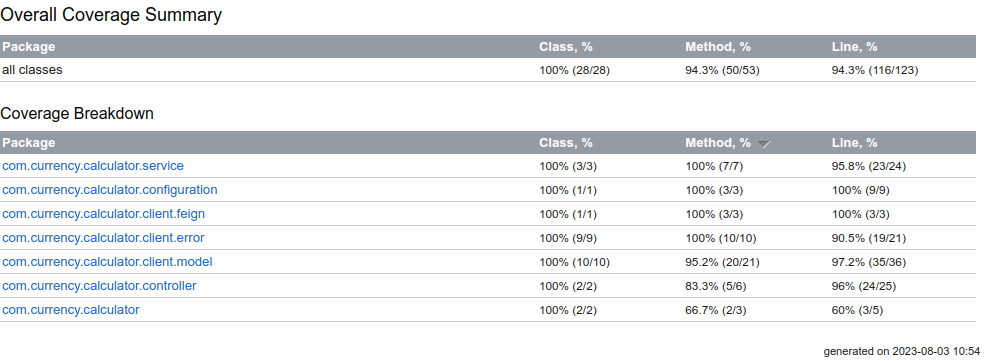
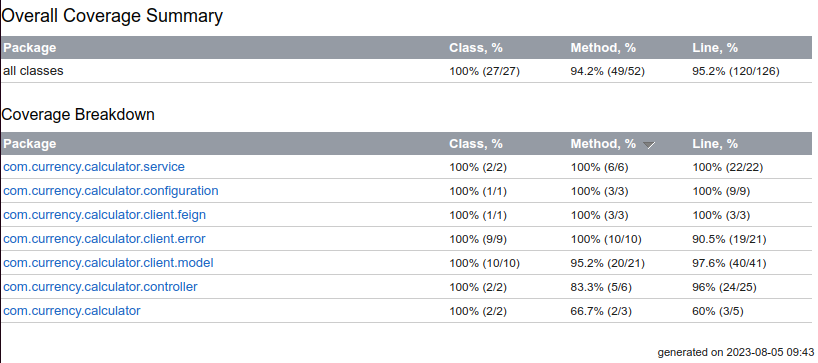
refactor: and rename function that parse json

diff --git a/src/main/kotlin/com/currency/calculator/service/ExchangeRateServiceImpl.kt b/src/main/kotlin/com/currency/calculator/service/ExchangeRateServiceImpl.kt
@@ -3,9 +3,9 @@ package com.currency.calculator.service
 import com.currency.calculator.client.error.MalformedRequestException
 import com.currency.calculator.client.feign.ExchangeFeignClient
 import com.currency.calculator.client.model.RatesResponse
-import com.currency.calculator.client.model.exchangeSerialization
 import com.currency.calculator.client.model.formatAmountToTwoDecimalPlaces
 import com.currency.calculator.client.model.formatRatesToTwoDecimalPlaces
+import com.currency.calculator.client.model.parseJSON
 import org.slf4j.LoggerFactory
 import org.springframework.stereotype.Service
 
@@ -22,7 +22,7 @@ class ExchangeRateServiceImpl(
     override fun getLatestByBaseCode(baseCode: String): RatesResponse {
 
         val exchangeApiResponse = exchangeFeignClient.getLatestExchangeFor(baseCode)
-        val rates = exchangeSerialization(exchangeApiResponse).ratesResponse
+        val rates = parseJSON(exchangeApiResponse)
 
         rates.formatRatesToTwoDecimalPlaces(DECIMAL_PLACES)
 

diff --git a/src/main/kotlin/com/currency/calculator/client/model/ExchangeRatesResponse.kt b/src/main/kotlin/com/currency/calculator/client/model/ExchangeRatesResponse.kt
@@ -13,7 +13,14 @@ data class ExchangeRatesResponse(
     var ratesResponse: RatesResponse
 )
 
-fun exchangeSerialization(response: String): ExchangeRatesResponse {
+fun parseJSON(jsonString: String): RatesResponse {
     val json = Json { ignoreUnknownKeys = true }
-    return json.decodeFromString<ExchangeRatesResponse>(response)
+    val ratesResponse = json.decodeFromString<ExchangeRatesResponse>(jsonString).ratesResponse
+
+    ratesResponse.BRL = ratesResponse.BRL ?: 0.0
+    ratesResponse.EUR = ratesResponse.EUR ?: 0.0
+    ratesResponse.INR = ratesResponse.INR ?: 0.0
+    ratesResponse.USD = ratesResponse.USD ?: 0.0
+
+    return ratesResponse
 }
